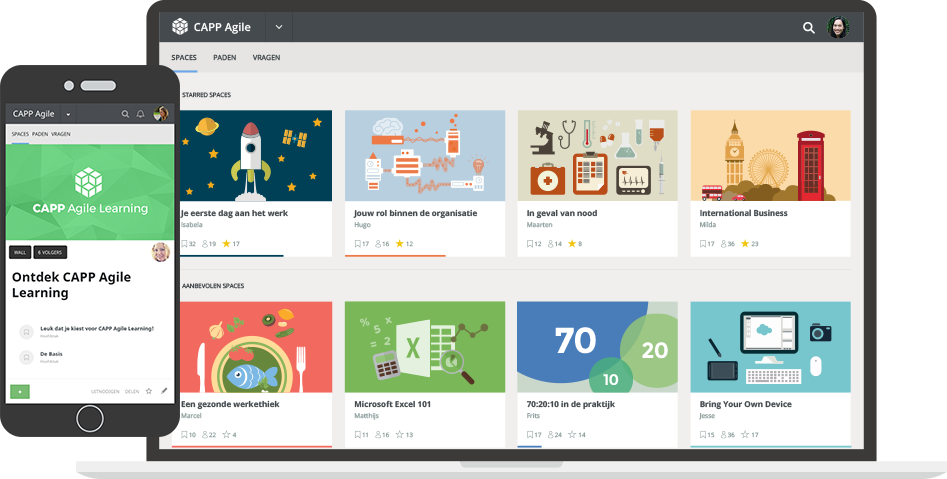
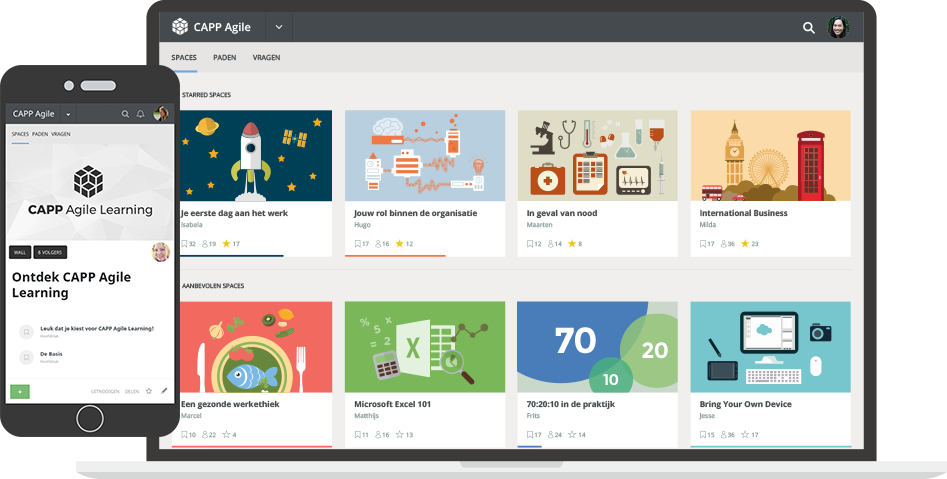
CAPP Agile Learning tweaks for conversions (#548)
* Make CTA orange and change CTA copy

* Remove name form field

* Focus first not hidden input at scroll

* Shrink logo to make it fit better

* Update form headline, remove form_text, update submit button text

* Update hero img for more contrast

Changed region(s): [[0.0, 0.2923, 0.1837, 0.5261]]

diff --git a/source/javascripts/_scroll-to-form.js b/source/javascripts/_scroll-to-form.js
@@ -6,7 +6,10 @@ $(function () {
 
     $.scrollTo($target, 400, {
       onAfter: function () {
-        $target.find('input[name="name"]').focus();
+        $target.find('input, textarea, select')
+        .not('input[type=hidden],input[type=button],input[type=submit],button')
+        .filter(':enabled:visible:first')
+        .focus();
       },
     });
 

diff --git a/source/stylesheets/_capp_agile.scss b/source/stylesheets/_capp_agile.scss
@@ -2,7 +2,7 @@ body.capp-agile-learning {
 
   .logo {
     margin: 0 auto 1.2em;
-    max-width: 400px;
+    max-width: 300px;
   }
 
   h1 {
